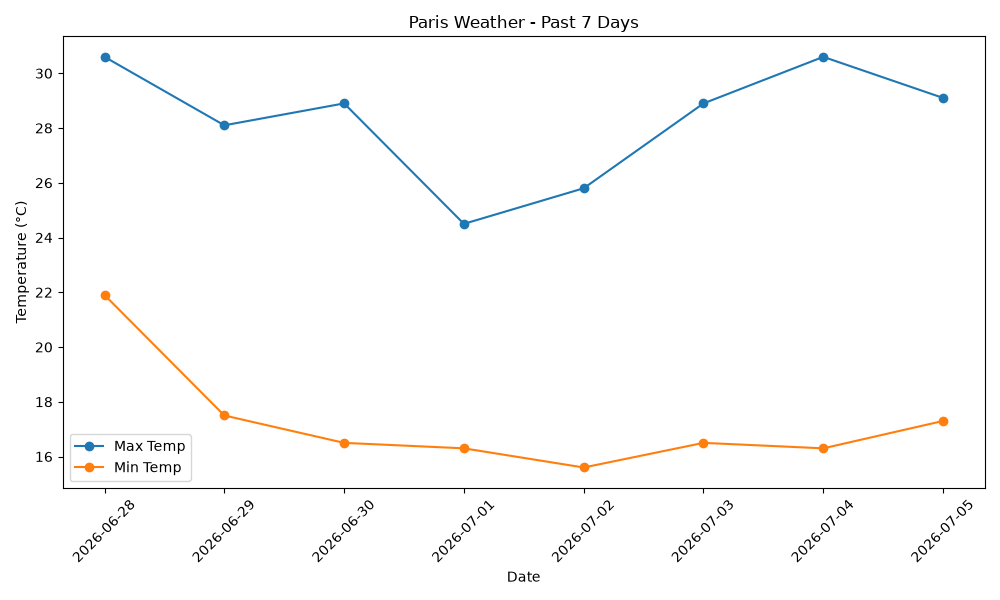
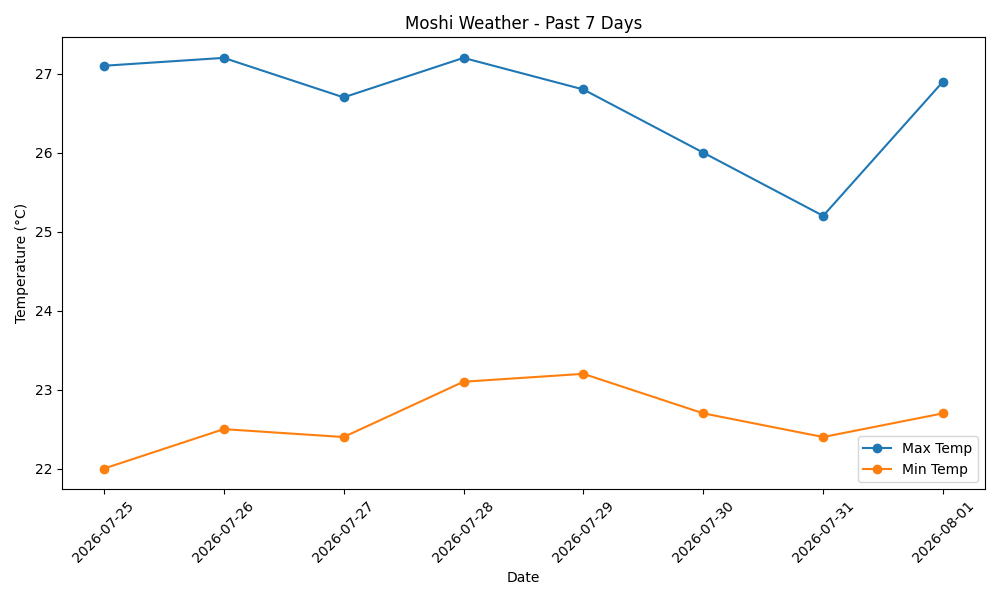
get_data

diff --git a/get_data.py b/get_data.py
@@ -2,6 +2,7 @@ import requests
 import pandas as pd
 import matplotlib.pyplot as plt
 from datetime import datetime, timedelta
+import os
 
 # Calculate dates
 today = datetime.now()
@@ -11,8 +12,8 @@ week_ago = today - timedelta(days=7)
 start_date = week_ago.strftime("%Y-%m-%d")
 end_date = today.strftime("%Y-%m-%d")
 
-# Get Paris weather for past week
-url = f"https://api.open-meteo.com/v1/forecast?latitude=48.85&longitude=2.35&start_date={start_date}&end_date={end_date}&daily=temperature_2m_max,temperature_2m_min"
+# Get Moshi weather for past week
+url = f"https://api.open-meteo.com/v1/forecast?latitude=18.6801&longitude=73.8502&start_date={start_date}&end_date={end_date}&daily=temperature_2m_max,temperature_2m_min"
 
 response = requests.get(url)
 data = response.json()
@@ -41,7 +42,7 @@ plt.plot(df['date'], df['min_temp'], marker='o', label='Min Temp')
 # Add labels and title
 plt.xlabel('Date')
 plt.ylabel('Temperature (°C)')
-plt.title('Paris Weather - Past 7 Days')
+plt.title('Moshi Weather - Past 7 Days')
 plt.legend()
 
 # Rotate x-axis labels for readability
@@ -51,3 +52,11 @@ plt.tight_layout()
 # Save the plot
 plt.savefig('weather_chart.png')
 plt.show()
+
+# Create data folder if it doesn't exist
+if not os.path.exists('data'):
+    os.makedirs('data')
+
+# Save to CSV
+df.to_csv('data/moshi_weather.csv', index=False)
+print("Data saved to data/moshi_weather.csv")
